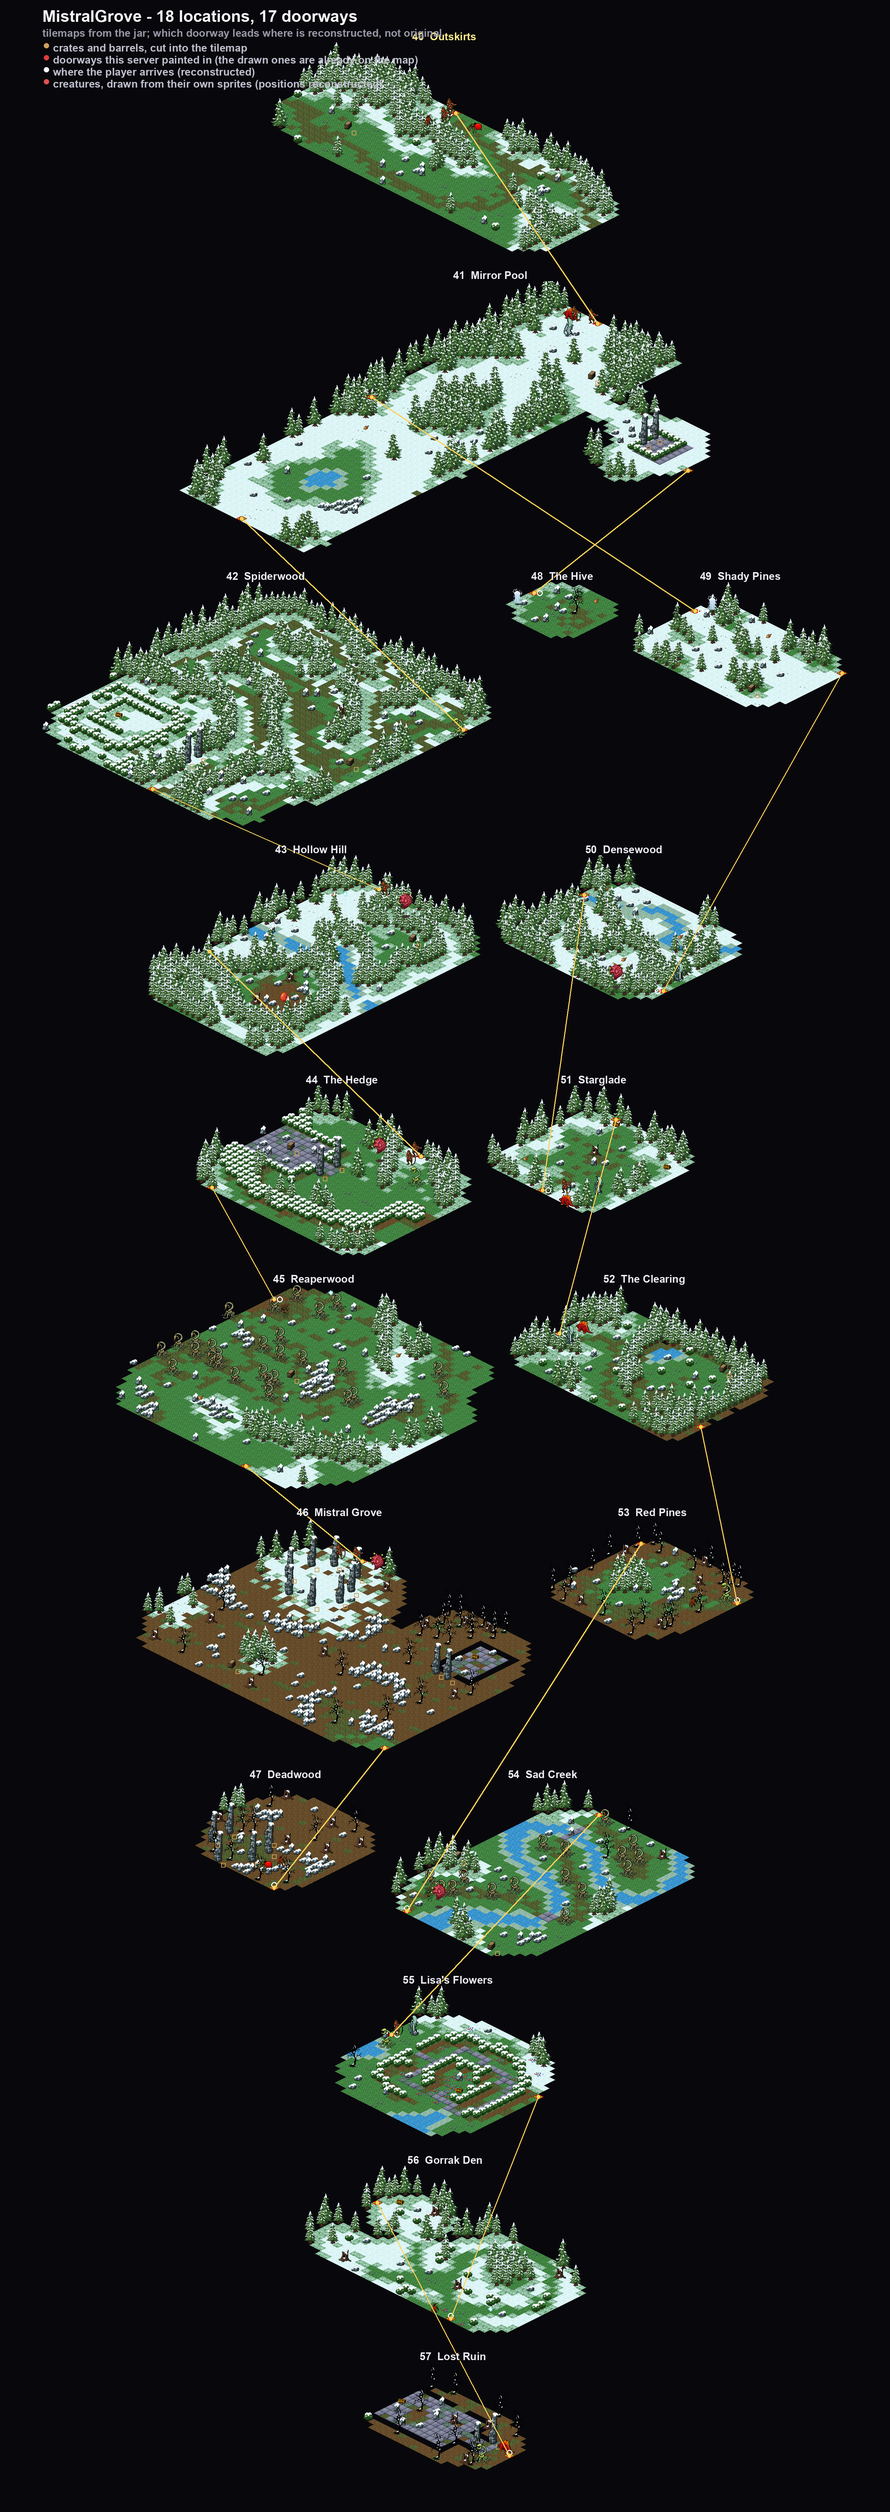
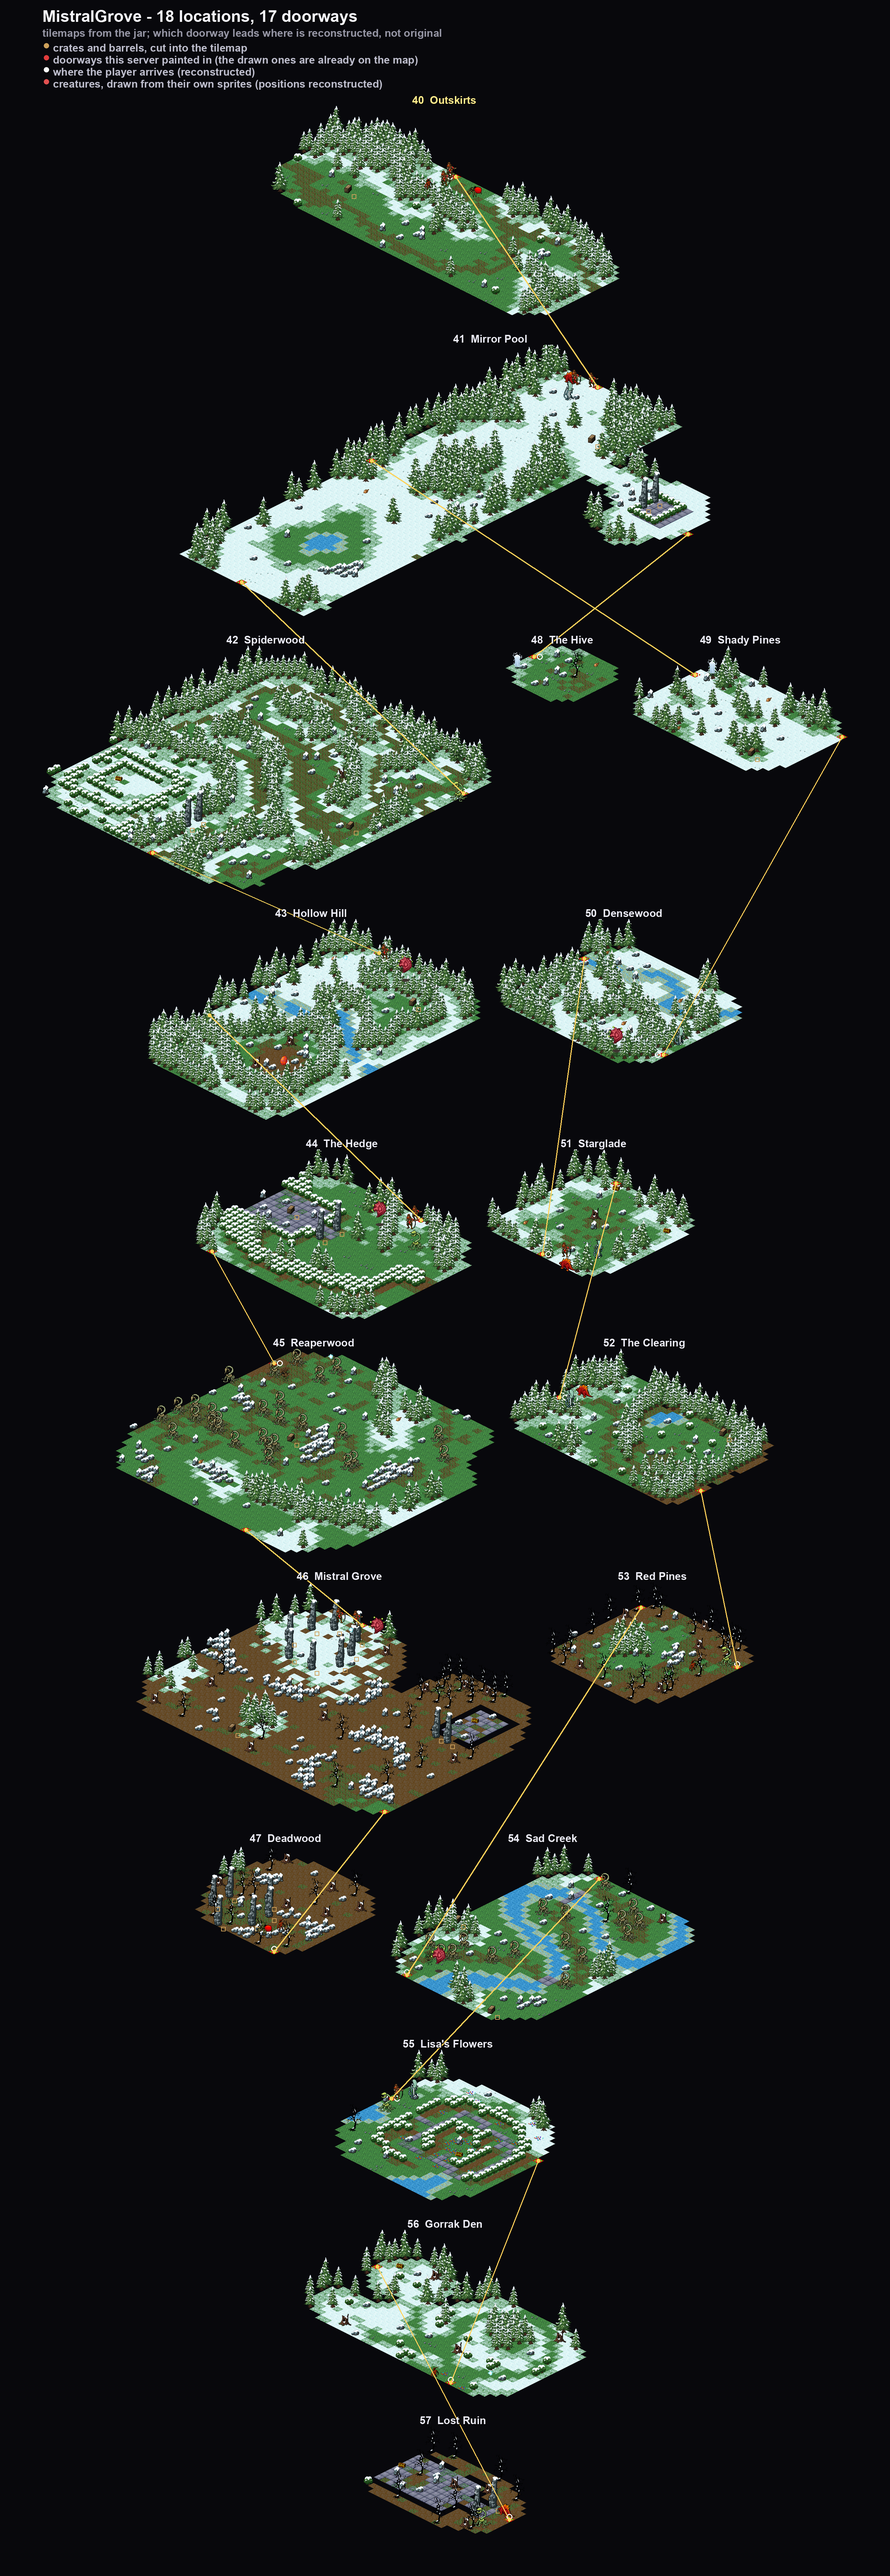
Draw Mistral Grove, and keep the header off the first map
The third chapter's atlas, laid out like the others: the story chain
down the spine from Outskirts through Mirror Pool, Spiderwood, Hollow
Hill, The Hedge, Reaperwood and Mistral Grove to Deadwood, with the side
chambers beside it.

The art does the storytelling. The Hedge has a walled enclosure across
it, Reaperwood is full of gravestones, and Mistral Grove itself is a
ring of standing stones — the altar the boy is chained to.

The title and legend were printing over the first row's name, so the
sheet now opens with room to clear them.

Changed region(s): [[0.031, 0.0, 0.9595, 0.9987]]

diff --git a/tools/atlas.py b/tools/atlas.py
@@ -297,9 +297,12 @@ def main():
     xs = [pos[l][0] for l in imgs] + [pos[l][0] + imgs[l].size[0] for l in imgs]
     ys = [pos[l][1] for l in imgs] + [pos[l][1] + imgs[l].size[1] for l in imgs]
     margin = 120
+    # the title and legend live in the top-left; give the first row room to
+    # clear them instead of printing its name over the caption
+    top = 300
     width = int(max(xs) - min(xs)) + margin * 2
-    height = int(max(ys) - min(ys)) + margin * 2
-    shift = (margin - min(xs), margin - min(ys))
+    height = int(max(ys) - min(ys)) + margin + top
+    shift = (margin - min(xs), top - min(ys))
 
     sheet = Image.new("RGBA", (width, height), (8, 8, 12, 255))
     for loc, img in imgs.items():
